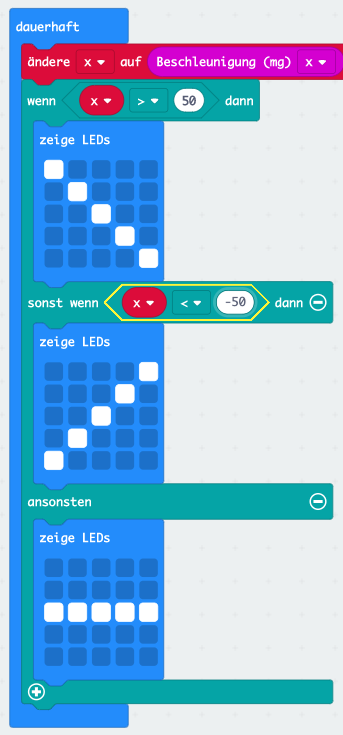
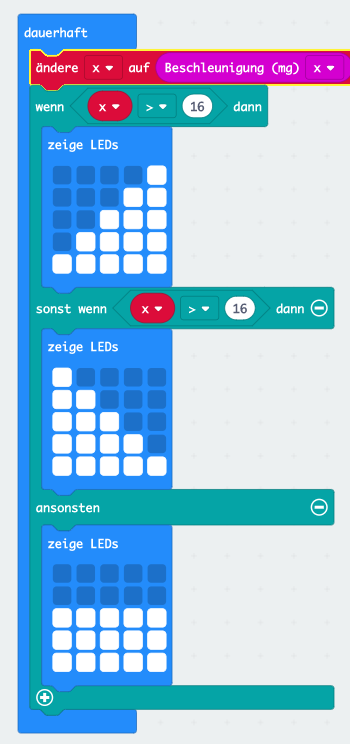
Update lesson 3

Changed region(s): [[0.0292, 0.0, 1.0, 1.0], [0.8746, 0.6585, 0.9913, 0.7184]]

diff --git a/docs/lessons/30_level/lesson.md b/docs/lessons/30_level/lesson.md
@@ -2,9 +2,9 @@
 
 ## Einleitung
 
-Einer der spannenden Sensoren des micro:bit ist der Beschleunigungssensor. Er kann Kräfte messen, z.B. die Gravitation der Erde die alles anzieht oder wenn du den micro:bit stösst.
+Einer der spannenden Sensoren des micro:bit ist der Beschleunigungssensor. Er kann Kräfte messen, z.B. die Gravitation der Erde oder wenn du den micro:bit anstösst.
 
-Wir wollen diesen Sensor nutzen um eine elektronische Wasserwaage zu bauen. Damit könnt ihr in Zukunft alle Bilder exakt gerade aufhängen.
+Wir wollen diesen Sensor nutzen um eine elektronische Wasserwaage zu bauen. Damit könnt ihr in Zukunft alle Bilder schön gerade aufhängen.
 
 Der micro:bit soll messen ob er genau waagerecht liegt und das auf dem Bildschirm anzeigen. Liegt er *schräg* soll die Anzeige angeben in welche Richtung.
 
@@ -12,9 +12,8 @@ Der micro:bit soll messen ob er genau waagerecht liegt und das auf dem Bildschir
 ## Verwendete (neue) Technologien
 
 *   Beschleunigungssensor
-*   Mathematische Berechnungen
 *   Variablen
-*   Vergleiche (if-then)
+*   Logik
 
 
 ## Programmierung
@@ -42,7 +41,7 @@ Lade es auf den micro:bit herunter und schau was passiert, wenn du Knopf A drüc
 
 Es ist etwas schwierig zu sehen da die Zahl auf dem Bildschirm durchläuft. Aber du solltest eine Zahl um -1000 sehen.
 
-Die Zahl ist die Kraft welche am micro:bit in Z-Richtung zieht. Ihr kennt sie als Erdanziehnugskraft oder Gravitation. Ihr Wert ist ca. 9.81 (m/s2). Der micro:bit misst genau diese Kraft und zeigt den Wert **1000** an wenn sie stimmt (**Hinweis**: 1000 entspricht einer Kraft von 9.81m/s2)
+Die Zahl ist die Kraft welche am micro:bit in Z-Richtung zieht. Ihr kennt sie als Erdanziehnugskraft oder Gravitation. Ihr Wert ist ca. 9.81 (m/s2). Der micro:bit misst genau diese Kraft und zeigt den Wert **1000** an wenn sie stimmt (**Hinweis**: 1000 entspricht einer Kraft von 9.81 m/s2)
 
 Da die Gravitation nicht an jeder Stelle der Erde exakt den Wert 9.81 hat und der micro:bit auch nicht ganz genau messen kann schwankt die Zahl ein wenig. Es kann gut sein dass ihr einmal 970 oder 1020 und dann wieder 1000 angezeigt bekommt. 
 
@@ -51,22 +50,107 @@ Wiederholt die Messung mehrere Male und schreibt euch den Wert auf. So bekommt i
 
 ### Warum ist die Zahl negativ?
 
-Wie du im Bild oben sehen kannst zeigt für den micro:bit die Z-Achse nach oben. Da die Gravitation aber nach unten zieht wirkt sie genau entgegen der Z-Achse. Der micro:bit sieht sie also in die *falsche* Richtung. Er zeigt sie daher als negative Zahl an.
+Wie du im Bild oben sehen kannst zeigt für den micro:bit die Z-Achse nach oben. Da die Gravitation aber nach unten zieht wirkt sie genau entgegen der Z-Achse. Der micro:bit sieht sie also in die *falsche* Richtung. Er zeigt sie daher als negative Zahl an. Wenn du den micro:bit auf den Kopf stellst wird die Zahl positiv. Allerdings ist sie dann nur schwer abzulesen.
 
 
 ### Und was ist mit den anderen Richtungen 
 
-Wenn du das Program änderst, so dass die Beschleunigung der **x** oder **y** Richtung angezeigt wird, siehst du nur eine sehr kleine Kraft.
+Wenn du das Programm änderst, so dass die Beschleunigung der **x** oder **y** Richtung angezeigt wird, siehst du nur eine sehr kleine Kraft. Dies liegt daran, dass der micro:bit ruhig auf dem Tisch liegt, also keine Kraft anliegt (sonst würde er sich ja bewegen).
+
+Wenn du aber den micro:bit auf die lange Seite stellst, kannst du mit der **y** Richtung wieder die Gravitation messen.
 
 
 
-## Schritt 2: Drei Himmelsrichtungen und viel Mathematik (ggf. Kapitel 3 statt 2, zu kompliziert hier)
+## Schritt 2: Die Wasserwaage
+
+Wir nutzen nun das Gelernte um eine Wasserwaage zu programmieren. Für die Wasserwaage wollen wir den micro:bit so halten, dass die lange Kontaktseite an dem Bild (oder Gegenstand) aufliegt. 
+
+![](image14.png)
+
+Um zu prüfen ob der Gegenstand, respektive der micro:bit, genau waagerecht liegt können wir die Kraft in Y-Richtung oder X-Richtung auswerten (oder sogar beide).
+
+Wenn der micro:bit exakt waagerecht liegt sollte in X-Richtung keine oder nur eine sehr geringe Kraft messbar sein. In Y-Richtung hingegen die ganze Erdbeschleunigung. Liegt er hingegen schräg, nimmt die Kraft in X-Richtung zu und in Y-Richtung ab.
+
+![](image15.png)
+
+Mit etwas höherer Mathematik (Arkustangens) kann man aus den beiden Kräften den Winkel ausrechnen. Wir nutzen aber als einfachste Variante die Kraft in X-Richtung die ja möglichst 0 sein soll.
+
+![](image16.png)
+
+
+
+Erstelle im Makecode Editor ein neues Programm.
+
+*   Da das Program diesmal dauernd laufen soll (nicht auf einen Knopfdruck) starte mit dem Block **dauerhaft**. Dieser liegt schon bereit.
+*   Wie im ersten Program wollen wir die **Beschleunigung (mg) x** messen. Hole den Block aus **Eingaben**
+
+Wir wollen die Kraft diesmal aber nicht gleich anzeigen, sondern uns erst einmal merken. Um sich etwas zu merken verwenden Computerprogramme **Variablen**. Stellt euch diese wie kleine Kistchen vor, die einen Namen haben und im Kistchen etwas speichern können. Man kann die Variable setzen, d.h. etwas ins Kistchen legen. Man kann die Variable später lesen, resp. in das Kistchen schauen.
+
+*   Wähle **Variablen**, **Erstelle eine Variable**. Ein Fenster öffnet sich. Gib den Namen **x** an und bestätige mit **Ok**.
+*   Du siehst nun ein neues Feld mit dem Namen **x** und zwei Blöcke um die Variable zu setzen, respektive zu ändern (**ändere auf**, **ändere um**).
+
+![](image4.png)
+
+*   Wählt aus **Variablen** den Block **ändere x auf 0** und setze ihn in den **dauerhaft** Block.
+*   Ersetze die **0** mit dem **Beschleunigung (mg) x** Block.
+
+![](image17.png)
+
+Nun müssen wir entscheiden ob unsere Wasserwaage, resp. der micro:bit ganz gerade liegt. Hier ist etwas ausprobieren nötig. Der Wert **x** ändert sich mehr oder weniger je nachdem wie schräg der micro:bit liegt. Am einfachsten wir zeigen den Wert erst einmal an.
+
+*   Wähle aus **Grundlagen**, **zeige Nummer**.
+*   Ersetze die **0** mit der Variable **x**.
+*   Dazu holst du aus **Variablen** das Feld **x** und ziehst es auf die **0**.
+
+![](image18.png)
+
+Lade das Programm und finde heraus welche Zahlen der micro:bit misst wenn er gerade auf dem Tisch steht. Diese Zahlen wollen wir nun in unser Program einbauen um auf dem Bildschirm entweder eine gerade Linie oder eine schräge Linie anzuzeigen. Nehmen wir an die Zahlen schwanken zwischen -16 und +16.
+
+In Worten soll unser Programm folgendes machen:
+*   Wenn der Wert von **x** > 16 ist, dann zeichne eine schräge Linie nach rechts.
+*   Sonst, wenn der Wert von **x** < -16 ist, dann zeichne eine schräge Linie nach links.
+*   Sonst zeichne eine gerade Linie. **x** muss dann zwischen -16 und +16 sein.
+
+Diese Art Programmteil nennt man **Logik**.
+
+*   Entferne den "zeige Nummer" Block.
+*   Nimm aus **Logik** den Block **wenn wahr dann**
+*   Gehe erneut zu **Logik** und hole den Block mit dem **kleiner** Zeichen.
+
+![](image19.png)
+
+*   Setze dieses an die Stelle des **wahr** Feldes.
+*   Hole die **Variable** **x** und setze sie in die linke **0**.
+*   Wähle statt dem **kleiner** Zeichen das **grösser** (Pfeil nach rechts).
+*   Überschreibe die rechte **0** mit **16**.
+*   Füge einen **zeige LEDs** Block ein der eine Linie nach recht oben anzeigt. Erfinde selber eine schöne Zeichnung.
+
+![](image21.png)
+
+Das ist die erste unserer drei **Logik** Bedingungen. Wir fügen nun die zweite anderen ein. 
+
+*   Klicke auf das kleine **(+)** Symbol unten link im **wenn** Block. Eine weitere Klammer öffnet sich.
+*   Klicke erneut auf das **(+)** Symbol. Eine dritte Klammer erscheint.
+*   Dupliziere die Bedingung **x > 16** von oben und füge sie bei der mittleren Klammer im Feld **sonst wenn .. dann** ein.
+*   Wähle statt dem **grösser** Zeichen das **kleiner** (Pfeil nach links).
+*   Ändere die Zahl auf **-16**.
+*   Füge einen **zeige LEDs** Block ein der eine Linie nach links oben anzeigt. Erfinde selber eine schöne Zeichnung.
+*   Füge einen dritten **zeige LEDs** Block in der Klammer **ansonsten** ein. Zeichne hier eine gerade Linie. 
+
+Dein Program sollte nun ungefähr so aussehen. Du kannst es auf den micro:bit laden und ausprobieren. Wenn die Bilder dauernd hin- und herschalten muss du die Werte in der **Logik** Bedingung erhöhen (z.B. -24, 24).
+
+![](image20.png)
+
+
+
+
+## Schritt 3: Drei Himmelsrichtungen und viel Mathematik
 
 Wir haben in Schritt 1 gesehen dass der micro:bit die Gravitation misst und dass diese ungefähr 1000 ist.
 
-Der micro:bit *sieht* mit seinen Sensoren die Kraft aber nur genau in die Richtung in die er misst. Also z.B. in Richtung **Z**. Wenn die Kraft schräg anliegt, sieht er nur noch einen Teil davon. Da die Graviation immer genau gerade nach unten zeigt, zum Mittelpunkt der Erde, müsst ihr stattdessen euren micro:bit schräg halten um diesen Effekt zu sehen. Wenn ihr es ausprobiert werdet ihr sehen dass die Zahlen kleiner werden.  
+Der micro:bit *sieht* mit seinen Sensoren die Kraft aber nur genau in die Richtung in die er misst. Also z.B. in Richtung **Z**. Wenn die Kraft schräg anliegt, sieht er nur noch einen Teil davon. Da die Gravitation immer genau gerade nach unten zeigt, müsst ihr stattdessen euren micro:bit schräg halten um diesen Effekt zu sehen. Wenn ihr es ausprobiert werdet ihr sehen dass die Zahlen kleiner werden.  
 
-Da die Gravitation der Erde aber nicht verschwindet, muss die Kraft ja trotzdem irgendwo sein. Das ist auch so, sie teilt sich nun einfach in verschiedene Richtungen auf (x,y und z). Wenn wir alle drei Richtungen des Sensors messen und zusammenzählen erhalten wir wieder die ganze Kraft. Das probieren wir nun aus und lernen dabei mit dem micro:bit zu rechnen.
+Da die Gravitation der Erde aber nicht verschwindet, muss die Kraft ja trotzdem irgendwo sein. Das ist auch so, sie teilt sich nun einfach in verschiedene Richtungen auf (x, y und z). Wenn wir alle drei Richtungen des Sensors messen und zusammenzählen erhalten wir wieder die ganze Kraft. Das probieren wir nun aus und lernen dabei mit dem micro:bit zu rechnen.
 
 Es wäre einfach wenn man die Kräfte aus x-, y- und z-Richtung einfach zusammenzählen könnte. Ganz so leicht ist es leider nicht. Die Mathematik will, dass wir das mit Wurzeln und Quadraten rechnen. Vielleicht habt ihr in der Schule schon mit Dreiecken gearbeitet und die Formel des Pythagoras gelernt. Das hier ist etwas ähnliches.
 
@@ -131,32 +215,11 @@ Das fertige Program sollte wie folgt aussehen. Lade es herunter und probiere es 
 
 
 
-
-## Schritt 3: Die Wasserwaage
-
-Wir nutzen nun das Gelernte um eine Wasserwaage zu programmieren. Für die Wasserwaage wollen wir den micro:bit so halten, dass die Kontaktseite an dem Bild (oder Gegenstand) aufliegt. 
-
-**Foto einfügen**
-
-Um zu prüfen ob der Gegenstand, respektive der micro:bit, genau Waagerecht liegt können wir die Kraft in Y-Richtung oder X-Richtung auswerten (oder sogar beide).
-
-Wenn der Microbit exakt waagerecht liegt sollte in X-Richtung keine oder nur eine sehr geringe Kraft messbar sein.
-
-*   xxxx
-*   yyyy
-
-![](image13.png)
-
-
-
-
-
-
 ## Ideen für Dich
 
 ### Verbessere die Messung
 
-Du hast sicher bemerkt dass die Messungen nicht immer den genau gleichen Wert liefern. Auch ist der Wert der Wasserwaage auch dann nicht exakt 0 wenn der micro_bit perfekt im Lot ist(waagerecht). Dies hängt mit zwei Effekten zusammen.
+Du hast sicher bemerkt dass die Messungen nicht immer den genau gleichen Wert liefern. Auch ist der Wert der Wasserwaage nicht exakt 0 wenn der micro:bit perfekt im Lot ist(waagerecht). Dies hängt mit zwei Effekten zusammen.
 
 1.  Messungenauigkeit, Rauschen
 2.  Kalibrierung
@@ -177,8 +240,7 @@ Dies findet man mit einer sogenannten **Kalibrierung** heraus. Dabei wird der mi
 *   Speichere den Wert in einer Variablen, z.B. **kal**.
 *   Subtrahiere den Wert bei jeder laufenden Messung vom Messwert.
 
-
-https://makecode.microbit.org/_EaLgh4CsTY6K
+[Link](https://makecode.microbit.org/_EaLgh4CsTY6K)
 
 
 
@@ -201,7 +263,7 @@ Wie du siehst kannst du eine Variable wie **g** auch später im Program wieder v
 *   Anzeigen wenn Taste A (kleinster Wert) oder B (grösster Wert) gedrückt wird.
 *   Neustarten wenn Taste A+B gleichzeitig gedrückt.
 
-https://makecode.microbit.org/_gXx2Mb1iMbFf
+[Link](https://makecode.microbit.org/_EaLgh4CsTY6K)
 
 
 
@@ -210,8 +272,7 @@ https://makecode.microbit.org/_gXx2Mb1iMbFf
 *   Dauernde Messung der Kräfte
 *   Anzeige Smiley wenn schwerelos
 
-https://makecode.microbit.org/_Y3Y98Vi2pKaX
-
+[Link](https://makecode.microbit.org/_Y3Y98Vi2pKaX)
 
 
 
@@ -227,6 +288,6 @@ https://makecode.microbit.org/_Y3Y98Vi2pKaX
 ## Programme
 
 *   Schritt 1: [makecode::level 1](https://makecode.microbit.org/_T9YLrK51w7jM)
-*   Schritt 2: [makecode::level 2](https://makecode.microbit.org/_h8xEFRVbCD3W)
-*   Schritt 3: [makecode::level 3](https://makecode.microbit.org/_D6X5KY06tRga)
+*   Schritt 2: [makecode::level 3](https://makecode.microbit.org/_eAb1mbW1w2uW)
+*   Schritt 3: [makecode::level 2](https://makecode.microbit.org/_h8xEFRVbCD3W)
 
